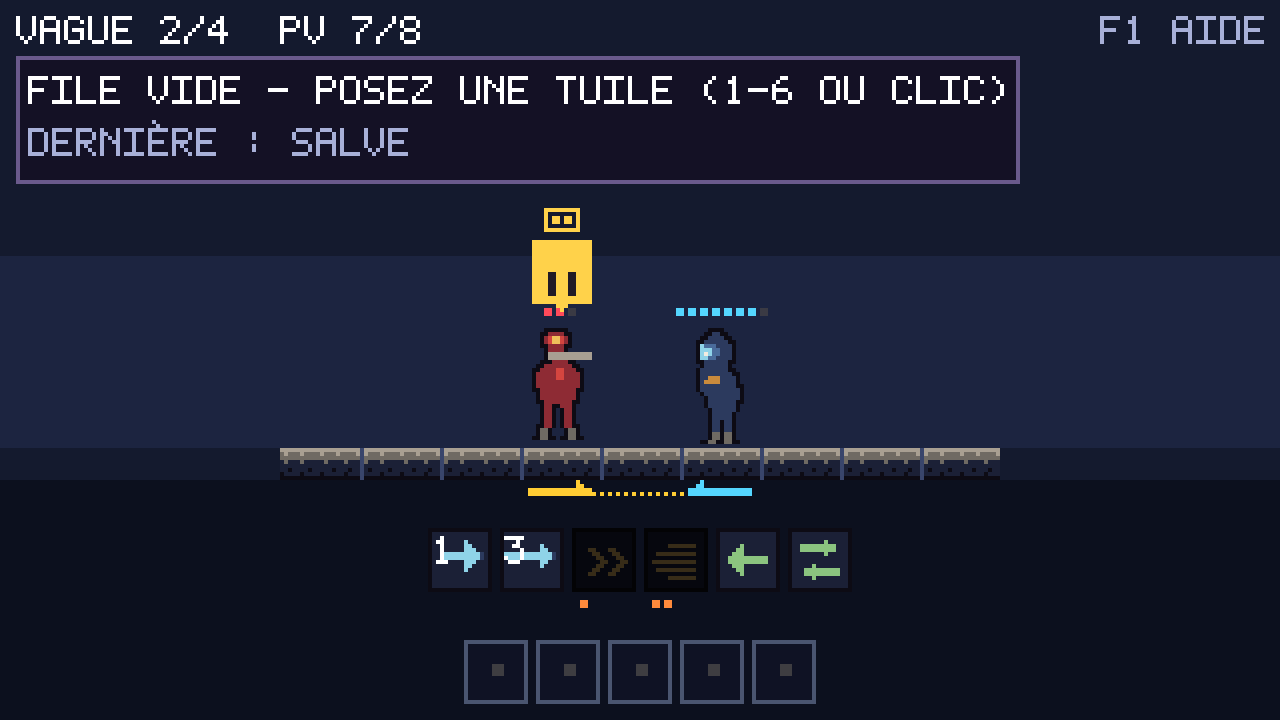
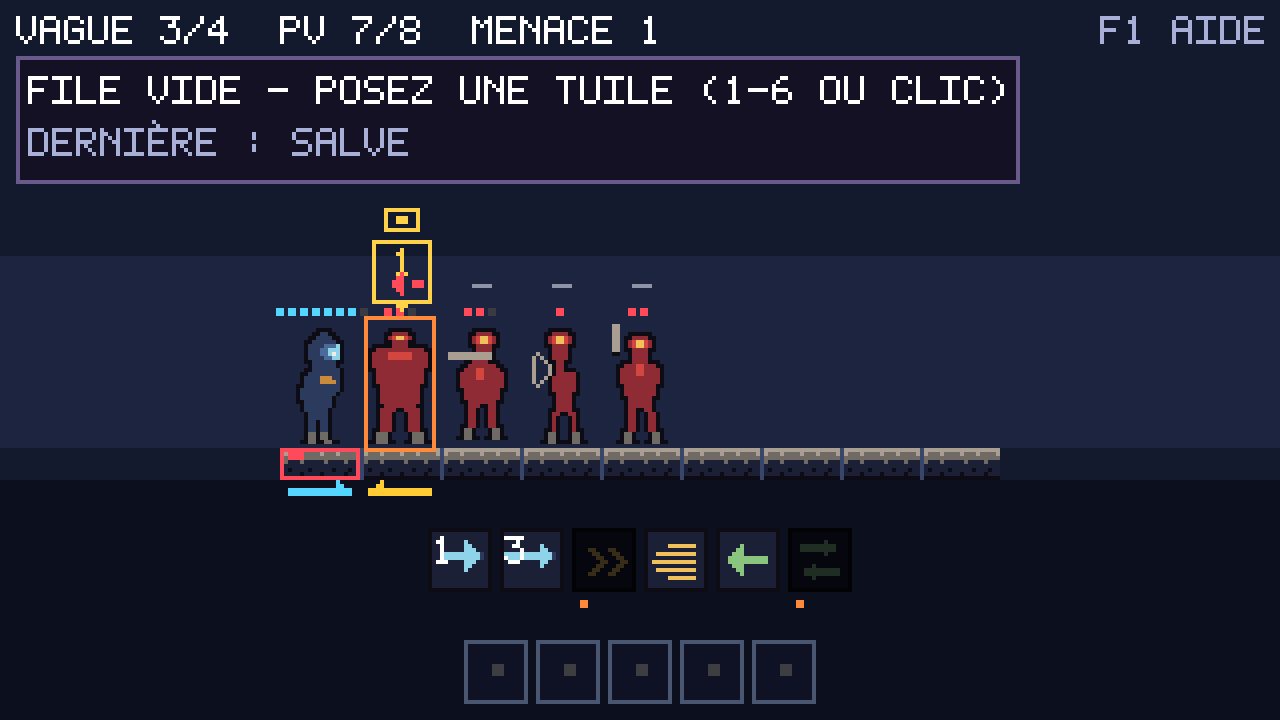
La file ennemie tient plusieurs actions
Differee deux fois, ouverte cette fois : le colosse ACCUMULE DEUX ACTIONS PUIS
LES LACHE ENSEMBLE. Sa lenteur ne vient plus d'un compteur de phases mais de sa
file, qu'il met deux tours a remplir. Le rythme est identique ; il est devenu
une donnee, et il se voit — on le regarde remplir, puis lacher, la ou il
alternait entre une menace et un tour de silence que rien n'expliquait.

Le total de degats ne bouge pas — deux coups d'un point pour les deux points
qu'il retirait d'un seul — mais une nuance apparait sans qu'on l'ait cherchee :
ses deux coups visent les cases annoncees AU MOMENT OU IL LES A MISES EN FILE,
donc le plus ancien porte souvent a cote. S'ecarter tot en esquive un ;
s'ecarter tard les esquive tous les deux.

DEUX FOIS J'AI SEPARE A MOITIE DEUX QUESTIONS QUI N'EN FAISAIENT QU'UNE.
« Il annonce » et « il agit » etaient le meme predicat tant qu'une file tenait
une action. J'ai corrige la boucle principale et oublie la passe qui reserve le
terrain des charges et des invocations — elles retombaient toutes sur WAIT.
Puis j'ai fait EXECUTER LA FILE MONTREE AU LIEU DE LA FILE JOUEE : celle du
lancier contient une charge promise et pas encore mise en file, et le modele la
jouait. Les tests ont rendu les deux fautes en quelques secondes.

Trois temoins encodaient l'ancien mecanisme plutot que le rythme observable.
Deux reformules sur ce qui se voit. Le troisieme a revele une regle : depenser
le budget d'invocation d'un souverain dans son dos ne retracte pas une
[…]

diff --git a/progress.html b/progress.html
@@ -357,10 +357,22 @@
 
 <figure class="sheet">
   <img src="captures/actuel/file-ennemie.png" alt="Starfall, la file d&rsquo;un lancier">
-  <figcaption><b>La file d&rsquo;un ennemi, enfin visible.</b> Le lancier prend son &eacute;lan &mdash; plaque <b>pleine</b>, donc rien ne tombe ce tour-ci &mdash; et la petite carte pos&eacute;e au-dessus porte la double pointe de la <b>charge qui suit</b>. Cette suite existait dans le mod&egrave;le depuis M6, cach&eacute;e dans un bool&eacute;en : on voyait &laquo; il se charge &raquo;, jamais &laquo; il se charge <i>pour une charge</i> &raquo;, et le joueur apprenait ce qui venait en le prenant. La carte du dessus est plus &eacute;troite et sans nombre : ce qui vient <i>ensuite</i> ne doit pas peser autant que ce qui tombe <i>maintenant</i>.</figcaption>
+  <figcaption><b>La file d&rsquo;un ennemi, pleine et pr&ecirc;te &agrave; partir.</b> Le colosse tient <b>deux</b> actions : il met deux tours &agrave; les accumuler, puis les l&acirc;che ensemble. Sa cadence n&rsquo;a pas chang&eacute; &mdash; une phase sur deux, comme avant &mdash; mais elle vient d&eacute;sormais de sa <b>file</b> et non d&rsquo;un compteur de phases, si bien qu&rsquo;elle se voit au lieu de se deviner : on le regarde remplir, puis l&acirc;cher, l&agrave; o&ugrave; il alternait entre une menace et un tour de silence que rien n&rsquo;expliquait. Sa force par coup est pass&eacute;e de deux &agrave; un : deux coups d&rsquo;un point valent les deux qu&rsquo;il retirait d&rsquo;un seul. <b>Le total ne bouge pas ; la lecture, si.</b></figcaption>
 </figure>
 
 <h2>Journal de review</h2>
+
+<div class="rev pass">
+  <div class="hd">Contr&ocirc;le p&eacute;riodique &mdash; <b>La file ennemie tient plusieurs actions</b></div>
+  <p>Diff&eacute;r&eacute;e deux fois, ouverte cette fois : le colosse <b>accumule deux actions puis les l&acirc;che ensemble</b>. Sa lenteur ne vient plus d&rsquo;un compteur de phases mais de sa file, qu&rsquo;il met deux tours &agrave; remplir. Le rythme est identique ; il est devenu une <i>donn&eacute;e</i>, et il se voit.</p>
+
+  <p><b>Le total de d&eacute;g&acirc;ts ne bouge pas</b> &mdash; deux coups d&rsquo;un point pour les deux points qu&rsquo;il retirait d&rsquo;un seul &mdash; mais une nuance de jeu appara&icirc;t sans qu&rsquo;on l&rsquo;ait cherch&eacute;e : ses deux coups visent les cases annonc&eacute;es <em>au moment o&ugrave; il les a mises en file</em>, donc le plus ancien porte souvent &agrave; c&ocirc;t&eacute;. S&rsquo;&eacute;carter t&ocirc;t en esquive un ; s&rsquo;&eacute;carter tard les esquive tous les deux.</p>
+
+  <p><b>Deux fois j&rsquo;ai s&eacute;par&eacute; &agrave; moiti&eacute; deux questions qui n&rsquo;en faisaient qu&rsquo;une.</b> &laquo; Il annonce &raquo; et &laquo; il agit &raquo; &eacute;taient le m&ecirc;me pr&eacute;dicat tant qu&rsquo;une file tenait une action ; avec la file, un ennemi remplit sans jouer. J&rsquo;ai corrig&eacute; la boucle principale et oubli&eacute; la passe qui r&eacute;serve le terrain des charges et des invocations &mdash; r&eacute;sultat, elles retombaient toutes sur <code>WAIT</code>. Puis j&rsquo;ai fait <b>ex&eacute;cuter la file montr&eacute;e au lieu de la file jou&eacute;e</b> : celle du lancier contient une charge <i>promise</i> et pas encore mise en file, et le mod&egrave;le la jouait. Les deux fautes ont &eacute;t&eacute; rendues par les tests en quelques secondes.</p>
+
+  <p style="margin-bottom:0"><b>Trois t&eacute;moins encodaient l&rsquo;ancien m&eacute;canisme</b> plut&ocirc;t que le rythme observable, et deux ont &eacute;t&eacute; reformul&eacute;s sur ce qui se voit. Le troisi&egrave;me a r&eacute;v&eacute;l&eacute; une r&egrave;gle : d&eacute;penser le budget d&rsquo;invocation d&rsquo;un souverain dans son dos ne r&eacute;tracte pas une invocation d&eacute;j&agrave; promise, parce qu&rsquo;<b>une file pleine est verrouill&eacute;e</b>. C&rsquo;est le t&eacute;l&eacute;graphe : une promesse r&eacute;tract&eacute;e est exactement ce qu&rsquo;il interdit. Le test pose maintenant sa question au moment o&ugrave; l&rsquo;ennemi d&eacute;cide, pas au milieu d&rsquo;un engagement en cours. 547 tests verts, ligne gagnante intacte, garde-fou de jouabilit&eacute; intact.</p>
+</div>
+
 
 <div class="rev pass">
   <div class="hd">Contr&ocirc;le p&eacute;riodique &mdash; <b>Une promesse &eacute;crite &agrave; deux endroits</b></div>

diff --git a/core/src/main/java/com/starfall/game/Arena.java b/core/src/main/java/com/starfall/game/Arena.java
@@ -377,7 +377,13 @@ public final class Arena {
                 enemy.setStunned(false);
                 continue;
             }
-            execute(enemy);
+            if (!enemy.isPlanFull()) {
+                continue; // sa file se remplit encore : rien ne part ce tour-ci
+            }
+            for (Intention queued : enemy.queued()) {
+                execute(enemy, queued);
+            }
+            enemy.clearPlan();
         }
         resolvePendingPush();
         phaseIndex++;
@@ -416,9 +422,12 @@ public final class Arena {
         // annoncé au joueur ne tombait jamais. Une intention est un engagement — les autres
         // ennemis doivent le respecter, sans quoi le télégraphe sur-promet.
         boolean[] reserved = new boolean[grid.width()];
+        // L'ETOURDI perd ce qu'il avait prevu. C'etait deja le cas quand un ennemi ne tenait
+        // qu'une action ; avec une file, l'ecrire autrement lui laisserait ses coups en reserve et
+        // ferait de l'etourdissement un simple report.
         for (Enemy enemy : enemies) {
-            if (!willAct(enemy)) {
-                enemy.announce(Intention.of(Intention.Kind.WAIT));
+            if (enemy.isStunned()) {
+                enemy.resetPlan(Intention.of(Intention.Kind.WAIT));
             }
         }
         // Les charges d'abord, les invocations ensuite, le reste en dernier. L'ordre des deux
@@ -430,8 +439,12 @@ public final class Arena {
         announceGroundClaims(enemies, heroCell, reserved, Enemy::isWindingUp);
         announceGroundClaims(enemies, heroCell, reserved, e -> e.kind().summons() > 0);
 
+        // ANNONCER n'est plus AGIR. Un ennemi remplit sa file tant qu'elle n'est pas pleine, et
+        // il la joue quand elle l'est : les deux questions se posaient au meme moment tant que
+        // toutes les files tenaient une action, et il a fallu les separer pour que le colosse
+        // puisse se voir accumuler.
         for (Enemy enemy : enemies) {
-            if (!willAct(enemy) || claimsGround(enemy)) {
+            if (enemy.isStunned() || enemy.isPlanFull() || claimsGround(enemy)) {
                 continue;
             }
             enemy.announce(EnemyBrain.decide(grid, enemy, grid.indexOf(enemy), heroCell,
@@ -443,7 +456,12 @@ public final class Arena {
     private void announceGroundClaims(List<Enemy> enemies, int heroCell, boolean[] reserved,
                                       java.util.function.Predicate<Enemy> selector) {
         for (Enemy enemy : enemies) {
-            if (!willAct(enemy) || !selector.test(enemy)) {
+            // « Peut annoncer », et non « va agir ». Les deux etaient la meme question tant que
+            // chaque ennemi ne tenait qu'une action ; depuis la file, un ennemi dont la file se
+            // remplit encore ANNONCE sans AGIR - et gouverner cette passe par « va agir » lui
+            // faisait sauter son annonce, si bien que charges et invocations retombaient sur
+            // WAIT. C'est la moitie de la separation que j'avais oubliee.
+            if (enemy.isStunned() || enemy.isPlanFull() || !selector.test(enemy)) {
                 continue;
             }
             Intention claim = EnemyBrain.decide(grid, enemy, grid.indexOf(enemy), heroCell,
@@ -478,7 +496,8 @@ public final class Arena {
      * possibles dans un jeu de placement.
      */
     public boolean willAct(Enemy enemy) {
-        return !enemy.isStunned() && enemy.kind().actsThisPhase(phaseIndex);
+        return !enemy.isStunned() && enemy.kind().actsThisPhase(phaseIndex)
+                && enemy.isPlanFull();
     }
 
     /** Marque le terrain qu'une intention réclame : un couloir de charge, ou une case d'invocation. */
@@ -511,12 +530,11 @@ public final class Arena {
      * <p>Si le joueur s'est écarté de la case visée, l'attaque part dans le vide — c'est exactement
      * ainsi qu'on esquive, et c'est pour cela que rien n'est recalculé ici.
      */
-    private void execute(Enemy enemy) {
+    private void execute(Enemy enemy, Intention intention) {
         int cell = grid.indexOf(enemy);
         if (cell < 0) {
             return; // tué entre-temps
         }
-        Intention intention = enemy.intention();
         switch (intention.kind()) {
             case ADVANCE -> {
                 if (grid.isFree(intention.targetCell())) {
@@ -903,8 +921,10 @@ public final class Arena {
     public int threatCount(int cell) {
         int count = 0;
         for (Enemy enemy : enemiesLeftToRight()) {
-            if (enemy.intention().threatens(cell)) {
-                count += enemy.strikesPerAttack();
+            for (Intention queued : threatening(enemy)) {
+                if (queued.threatens(cell)) {
+                    count += enemy.strikesPerAttack();
+                }
             }
         }
         return count;
@@ -924,11 +944,25 @@ public final class Arena {
     public int threatDamage(int cell) {
         int total = 0;
         for (Enemy enemy : enemiesLeftToRight()) {
-            if (enemy.intention().threatens(cell)) {
-                total += enemy.announcedDamage();
+            for (Intention queued : threatening(enemy)) {
+                if (queued.threatens(cell)) {
+                    total += enemy.announcedDamage();
+                }
             }
         }
         return total;
+    }
+
+    /**
+     * Ce qu'un ennemi fera <b>&agrave; la phase qui vient</b>, ou rien.
+     *
+     * <p>Une file qui se remplit encore ne menace personne : ses actions partiront, mais pas
+     * maintenant. Les compter comme des menaces ferait sur-promettre le t&eacute;l&eacute;graphe
+     * &mdash; le joueur fuirait une case o&ugrave; rien ne tombe. Une file pleine, elle, part en
+     * entier, et chacune de ses actions compte.
+     */
+    private List<Intention> threatening(Enemy enemy) {
+        return willAct(enemy) ? enemy.queued() : List.of();
     }
 
     /** Case du héros. Toujours valide : le héros ne quitte jamais la grille. */

diff --git a/core/src/main/java/com/starfall/game/Enemy.java b/core/src/main/java/com/starfall/game/Enemy.java
@@ -2,6 +2,7 @@ package com.starfall.game;
 
 import java.util.Collections;
 import java.util.EnumSet;
+import java.util.ArrayList;
 import java.util.List;
 import java.util.Set;
 
@@ -29,6 +30,9 @@ public final class Enemy implements Occupant {
 
     private Direction facing = Direction.LEFT;
     private Intention intention = Intention.of(Intention.Kind.WAIT);
+
+    /** Ce qu'il a mis en file, dans l'ordre où il le jouera. Voir {@link EnemyKind#planSize()}. */
+    private final List<Intention> plan = new ArrayList<>();
     /** Vrai quand un lancier a pris son élan et chargera à sa prochaine activation. */
     private boolean windingUp;
     /** Invocations qu'il lui reste. Zéro pour tout le monde sauf le souverain. */
@@ -87,8 +91,49 @@ public final class Enemy implements Occupant {
         return intention;
     }
 
+    /**
+     * Met une action dans la file, si elle n'est pas pleine.
+     *
+     * <p>Une file pleine est <b>verrouillée</b> : ce qui y est ne change plus, et c'est ce qui rend
+     * l'annonce tenable. Ajouter à une file pleine reviendrait à réécrire une promesse déjà faite
+     * au joueur, ce que le télégraphe interdit depuis M6.
+     */
     void announce(Intention intention) {
-        this.intention = intention;
+        if (plan.size() >= kind.planSize()) {
+            return;
+        }
+        plan.add(intention);
+        this.intention = plan.get(0);
+    }
+
+    /** Vide la file et n'y met que cela. Sert à l'étourdissement, qui efface ce qui était prévu. */
+    void resetPlan(Intention only) {
+        plan.clear();
+        plan.add(only);
+        this.intention = only;
+    }
+
+    /** Vrai quand la file est pleine : elle part à la prochaine activation, en entier. */
+    public boolean isPlanFull() {
+        return plan.size() >= kind.planSize();
+    }
+
+    /**
+     * La file <b>réelle</b>, telle que le modèle la jouera.
+     *
+     * <p>Distincte de {@link #plan()}, qui est la file <em>montrée</em> : celle-là ajoute, pour un
+     * lancier qui prend son élan, la charge qu'il tiendra ensuite — une action qui n'est pas encore
+     * dans la file mais qui est promise sans condition. Confondre les deux fait exécuter une
+     * promesse au lieu de l'annoncer, ce qui est exactement le contraire de ce qu'elle est.
+     */
+    List<Intention> queued() {
+        return List.copyOf(plan);
+    }
+
+    /** Vide la file : appelé une fois qu'elle a été jouée. */
+    void clearPlan() {
+        plan.clear();
+        intention = Intention.of(Intention.Kind.WAIT);
     }
 
     boolean isWindingUp() {
@@ -161,6 +206,9 @@ public final class Enemy implements Occupant {
      * qu'elle couvre.
      */
     public List<Intention> plan() {
+        if (plan.size() > 1) {
+            return List.copyOf(plan);
+        }
         if (intention.kind() == Intention.Kind.WIND_UP) {
             // Ce qui suit l'elan est connu d'avance et sans condition : le lancier « tient sa
             // promesse, quoi qu'il arrive ». La case visee, elle, ne l'est pas - elle sera

diff --git a/core/src/main/java/com/starfall/game/EnemyKind.java b/core/src/main/java/com/starfall/game/EnemyKind.java
@@ -62,10 +62,15 @@ public enum EnemyKind {
      *
      * <p>Sa lenteur est sa lisibilité : on peut le contourner, à condition de compter.
      */
-    COLOSSE("colosse", "enemy/colosse", 1, 2, 3) {
+    COLOSSE("colosse", "enemy/colosse", 1, 1, 3) {
         @Override
         boolean actsThisPhase(int phaseIndex) {
-            return phaseIndex % 2 == 0;
+            return true;
+        }
+
+        @Override
+        int planSize() {
+            return 2;
         }
     },
 
@@ -163,8 +168,35 @@ public enum EnemyKind {
         return health;
     }
 
-    /** Vrai si l'archétype agit à cette phase. Le colosse n'agit qu'une fois sur deux. */
+    /**
+     * Vrai si l'archétype agit à cette phase.
+     *
+     * <p>Le colosse n'y répond plus : sa lenteur ne vient plus d'un compteur de phases mais de sa
+     * <b>file</b>, qu'il met deux tours à remplir. Le rythme est devenu une donnée au lieu d'un cas
+     * particulier, et il se voit à l'écran au lieu de se deviner.
+     */
     abstract boolean actsThisPhase(int phaseIndex);
+
+    /**
+     * Combien d'actions cet archétype accumule avant de les lâcher <b>toutes ensemble</b>.
+     *
+     * <h2>Ce que la file change</h2>
+     *
+     * <p>Un ennemi à file de un annonce puis frappe, tour après tour : c'est tout le monde sauf le
+     * colosse, et c'était tout le monde sans exception jusqu'ici. Le colosse en tient <b>deux</b>.
+     * Il ne frappe donc qu'un tour sur deux — exactement la cadence qu'il avait — mais les deux
+     * tours se lisent au lieu d'un seul : on le voit <em>remplir</em>, puis <em>lâcher</em>, là où
+     * il alternait entre une menace et un tour de silence que rien n'expliquait.
+     *
+     * <p>Sa force par coup passe de deux à un : deux coups d'un point valent les deux points qu'il
+     * retirait d'un seul, et la cadence est inchangée. <b>Le total ne bouge pas ; la lecture,
+     * si.</b> Et une nuance de jeu apparaît sans qu'on l'ait cherchée : ses deux coups visent les
+     * cases annoncées <em>au moment où il les a mises en file</em>, donc le plus ancien porte
+     * souvent à côté. S'écarter tôt en esquive un ; s'écarter tard les esquive tous les deux.
+     */
+    int planSize() {
+        return 1;
+    }
 
     /** Vrai si l'archétype prépare sa frappe un tour à l'avance. */
     boolean windsUp() {

diff --git a/core/src/test/java/com/starfall/game/EnemyTest.java b/core/src/test/java/com/starfall/game/EnemyTest.java
@@ -169,9 +169,13 @@ class EnemyTest {
             passTurn(arena);
             int afterThird = arena.grid().indexOf(colosse);
 
-            assertNotEquals(4, afterFirst, "il agit a la premiere phase");
-            assertEquals(afterFirst, afterSecond, "puis il passe son tour");
-            assertNotEquals(afterSecond, afterThird, "puis il repart");
+            // Le rythme n'a pas change - une phase sur deux - mais il est DECALE, et pour une
+            // bonne raison : la lenteur du colosse ne vient plus d'un compteur de phases, elle
+            // vient de sa FILE, qu'il met deux tours a remplir. Il commence donc par accumuler,
+            // ce qui se voit a l'ecran, la ou il commencait par agir apres un silence inexplique.
+            assertEquals(4, afterFirst, "il remplit sa file d'abord, il ne bouge pas");
+            assertNotEquals(afterFirst, afterSecond, "puis il lache tout");
+            assertEquals(afterSecond, afterThird, "puis il recommence a remplir");
         }
     }
 

diff --git a/core/src/test/java/com/starfall/game/CombatTest.java b/core/src/test/java/com/starfall/game/CombatTest.java
@@ -76,8 +76,11 @@ class CombatTest {
             // Ce qui est difficile a tuer doit etre facile a eviter, sans quoi il n'y a pas de
             // decision a prendre.
             assertTrue(EnemyKind.COLOSSE.health() > EnemyKind.SABREUR.health());
-            assertFalse(EnemyKind.COLOSSE.actsThisPhase(1));
-            assertTrue(EnemyKind.SABREUR.actsThisPhase(1));
+            // La lenteur ne se lit plus dans un compteur de phases mais dans la FILE : le colosse
+            // met deux tours a la remplir avant de la lacher, le sabreur la lache a chaque tour.
+            // Le rythme est le meme ; il est devenu une donnee, et il se voit.
+            assertTrue(EnemyKind.COLOSSE.planSize() > EnemyKind.SABREUR.planSize(),
+                    "la lenteur du colosse doit se lire quelque part");
         }
     }
 

diff --git a/core/src/test/java/com/starfall/game/SovereignTest.java b/core/src/test/java/com/starfall/game/SovereignTest.java
@@ -153,6 +153,13 @@ class SovereignTest {
         for (int i = 0; i < budget; i++) {
             boss.spendSummon();
         }
+        // Sa file est VERROUILLEE tant qu'elle est pleine : ce qui y est ne change plus, et c'est
+        // ce qui rend l'annonce tenable. Depenser le budget dans son dos ne retracte donc pas une
+        // invocation deja promise - et c'est tant mieux, car une promesse retractee est exactement
+        // ce que le telegraphe interdit. La question de ce test se pose au moment ou il DECIDE,
+        // pas au milieu d'un engagement en cours ; en jeu, le budget ne se depense qu'en jouant
+        // l'invocation, ce qui vide la file du meme geste.
+        boss.clearPlan();
         arena.announceIntentions();
 
         assertEquals(0, boss.summonsLeft());
